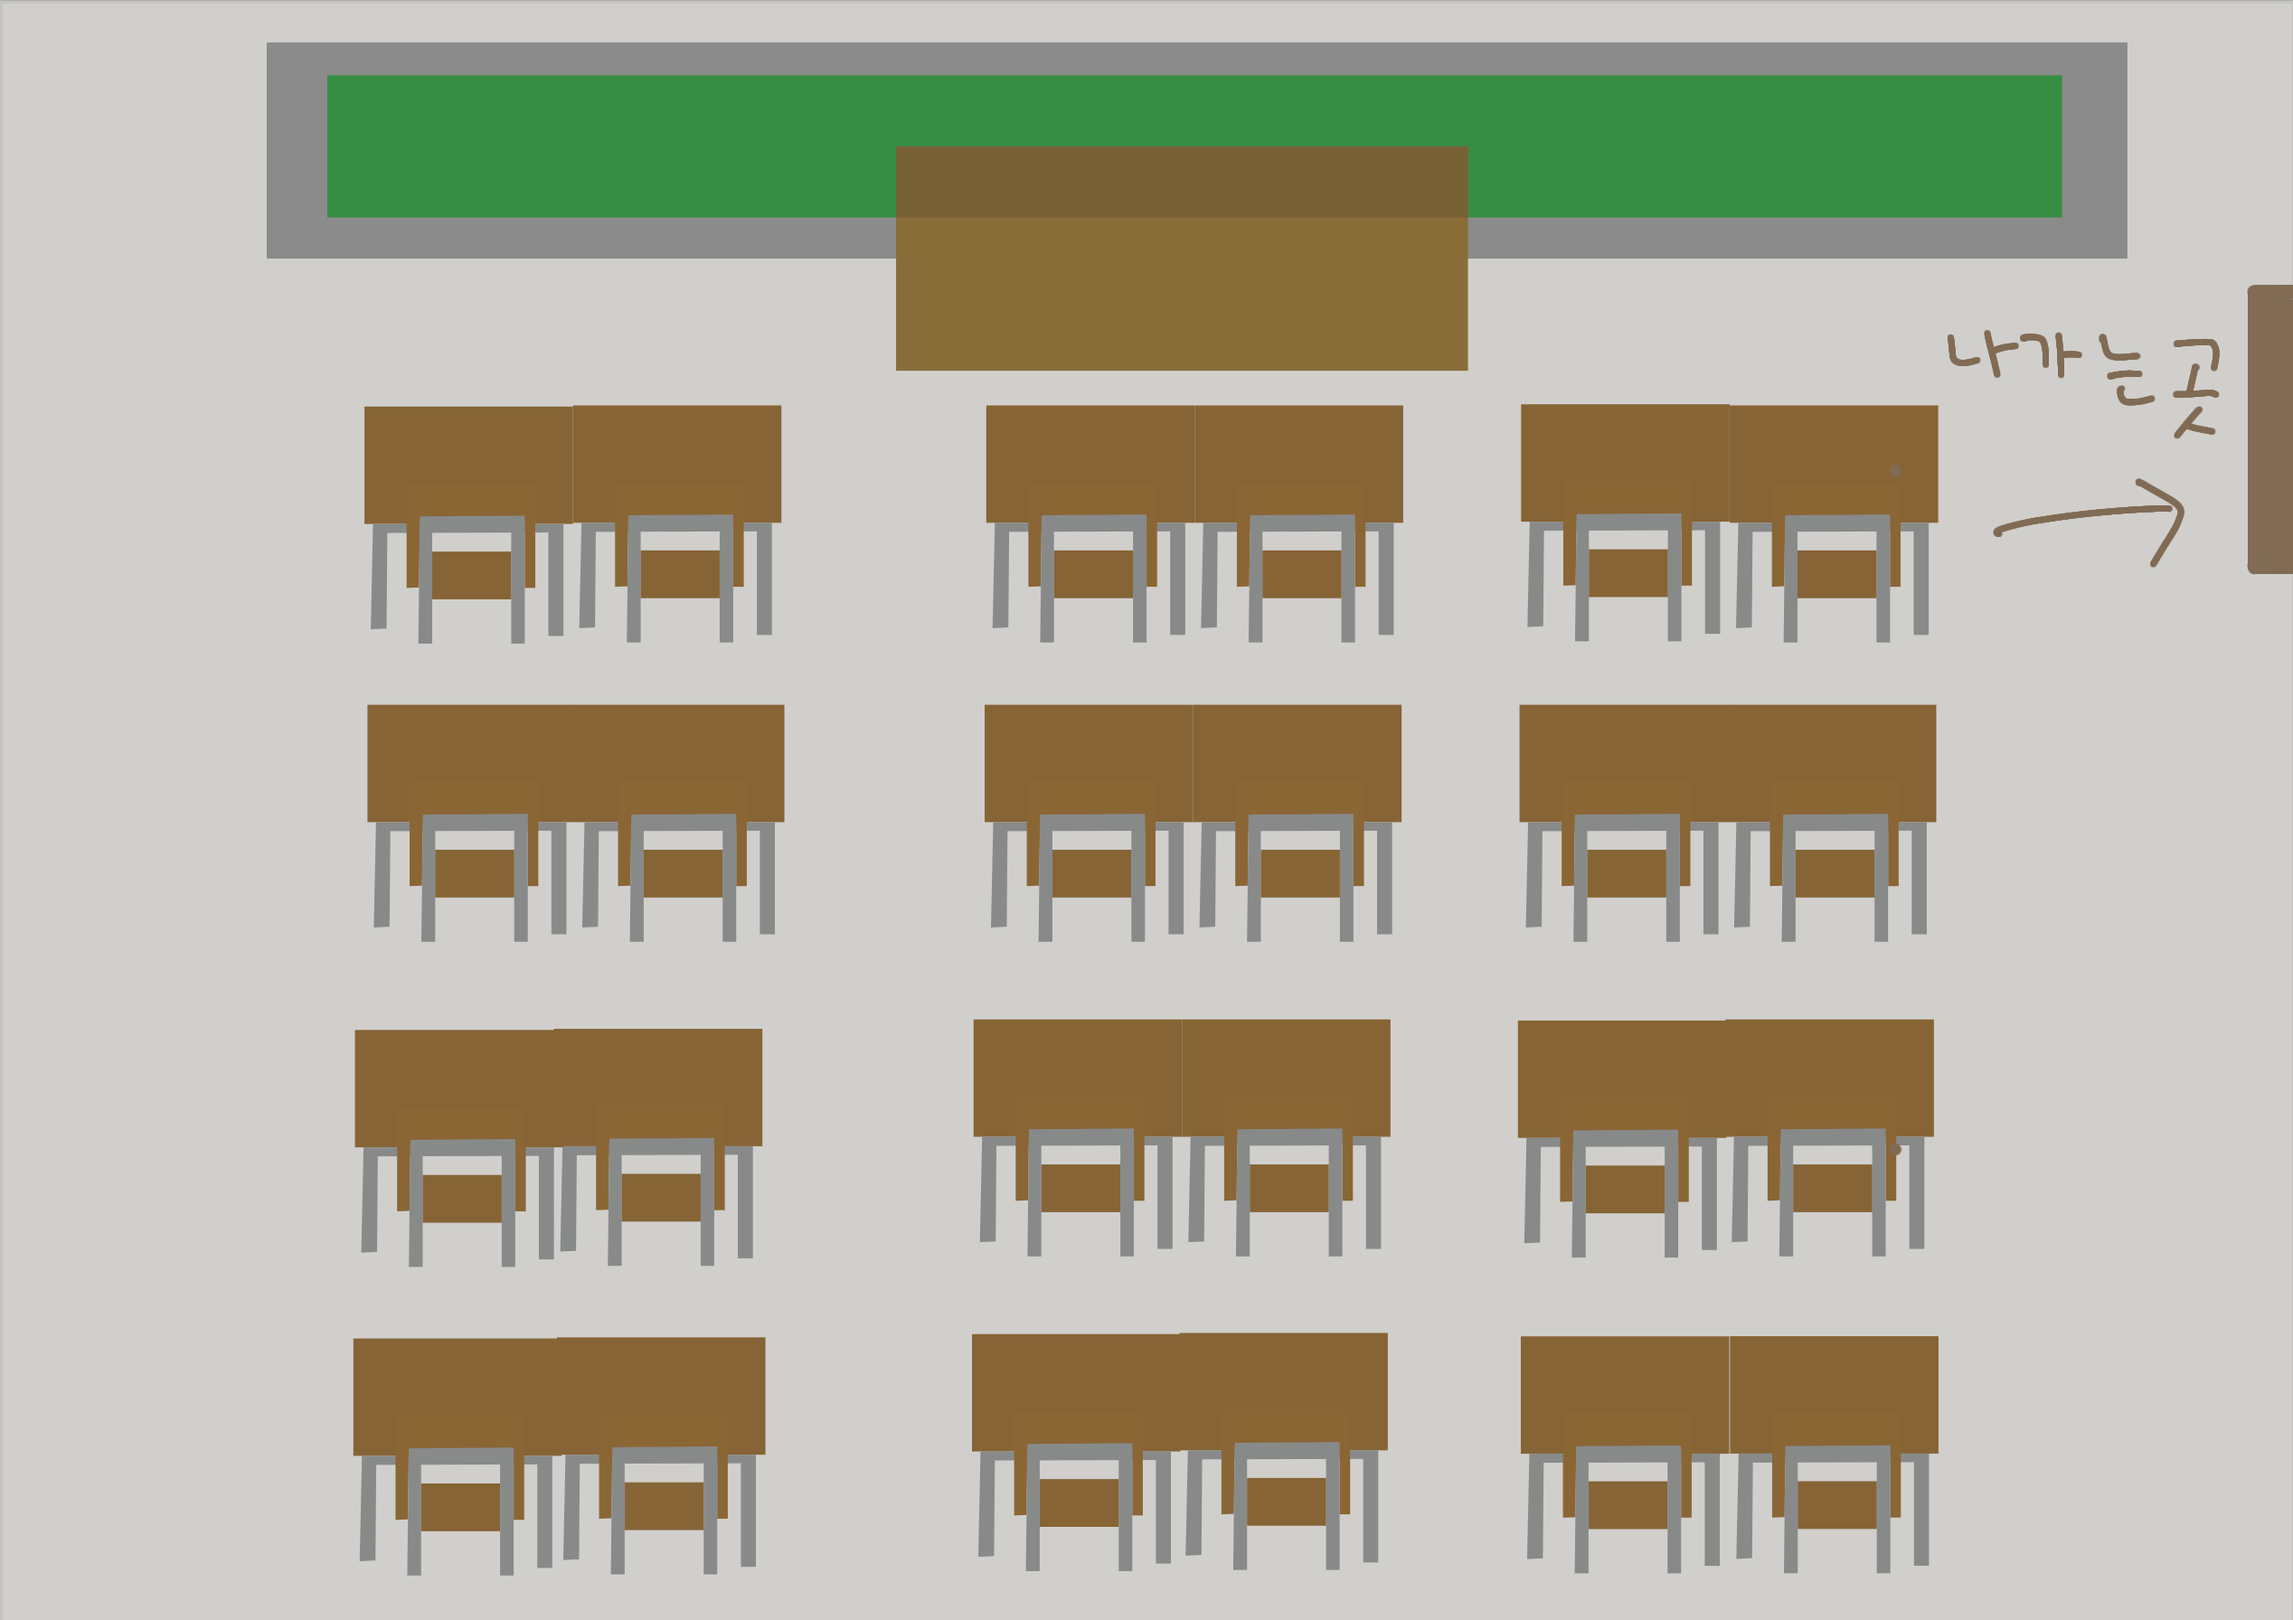
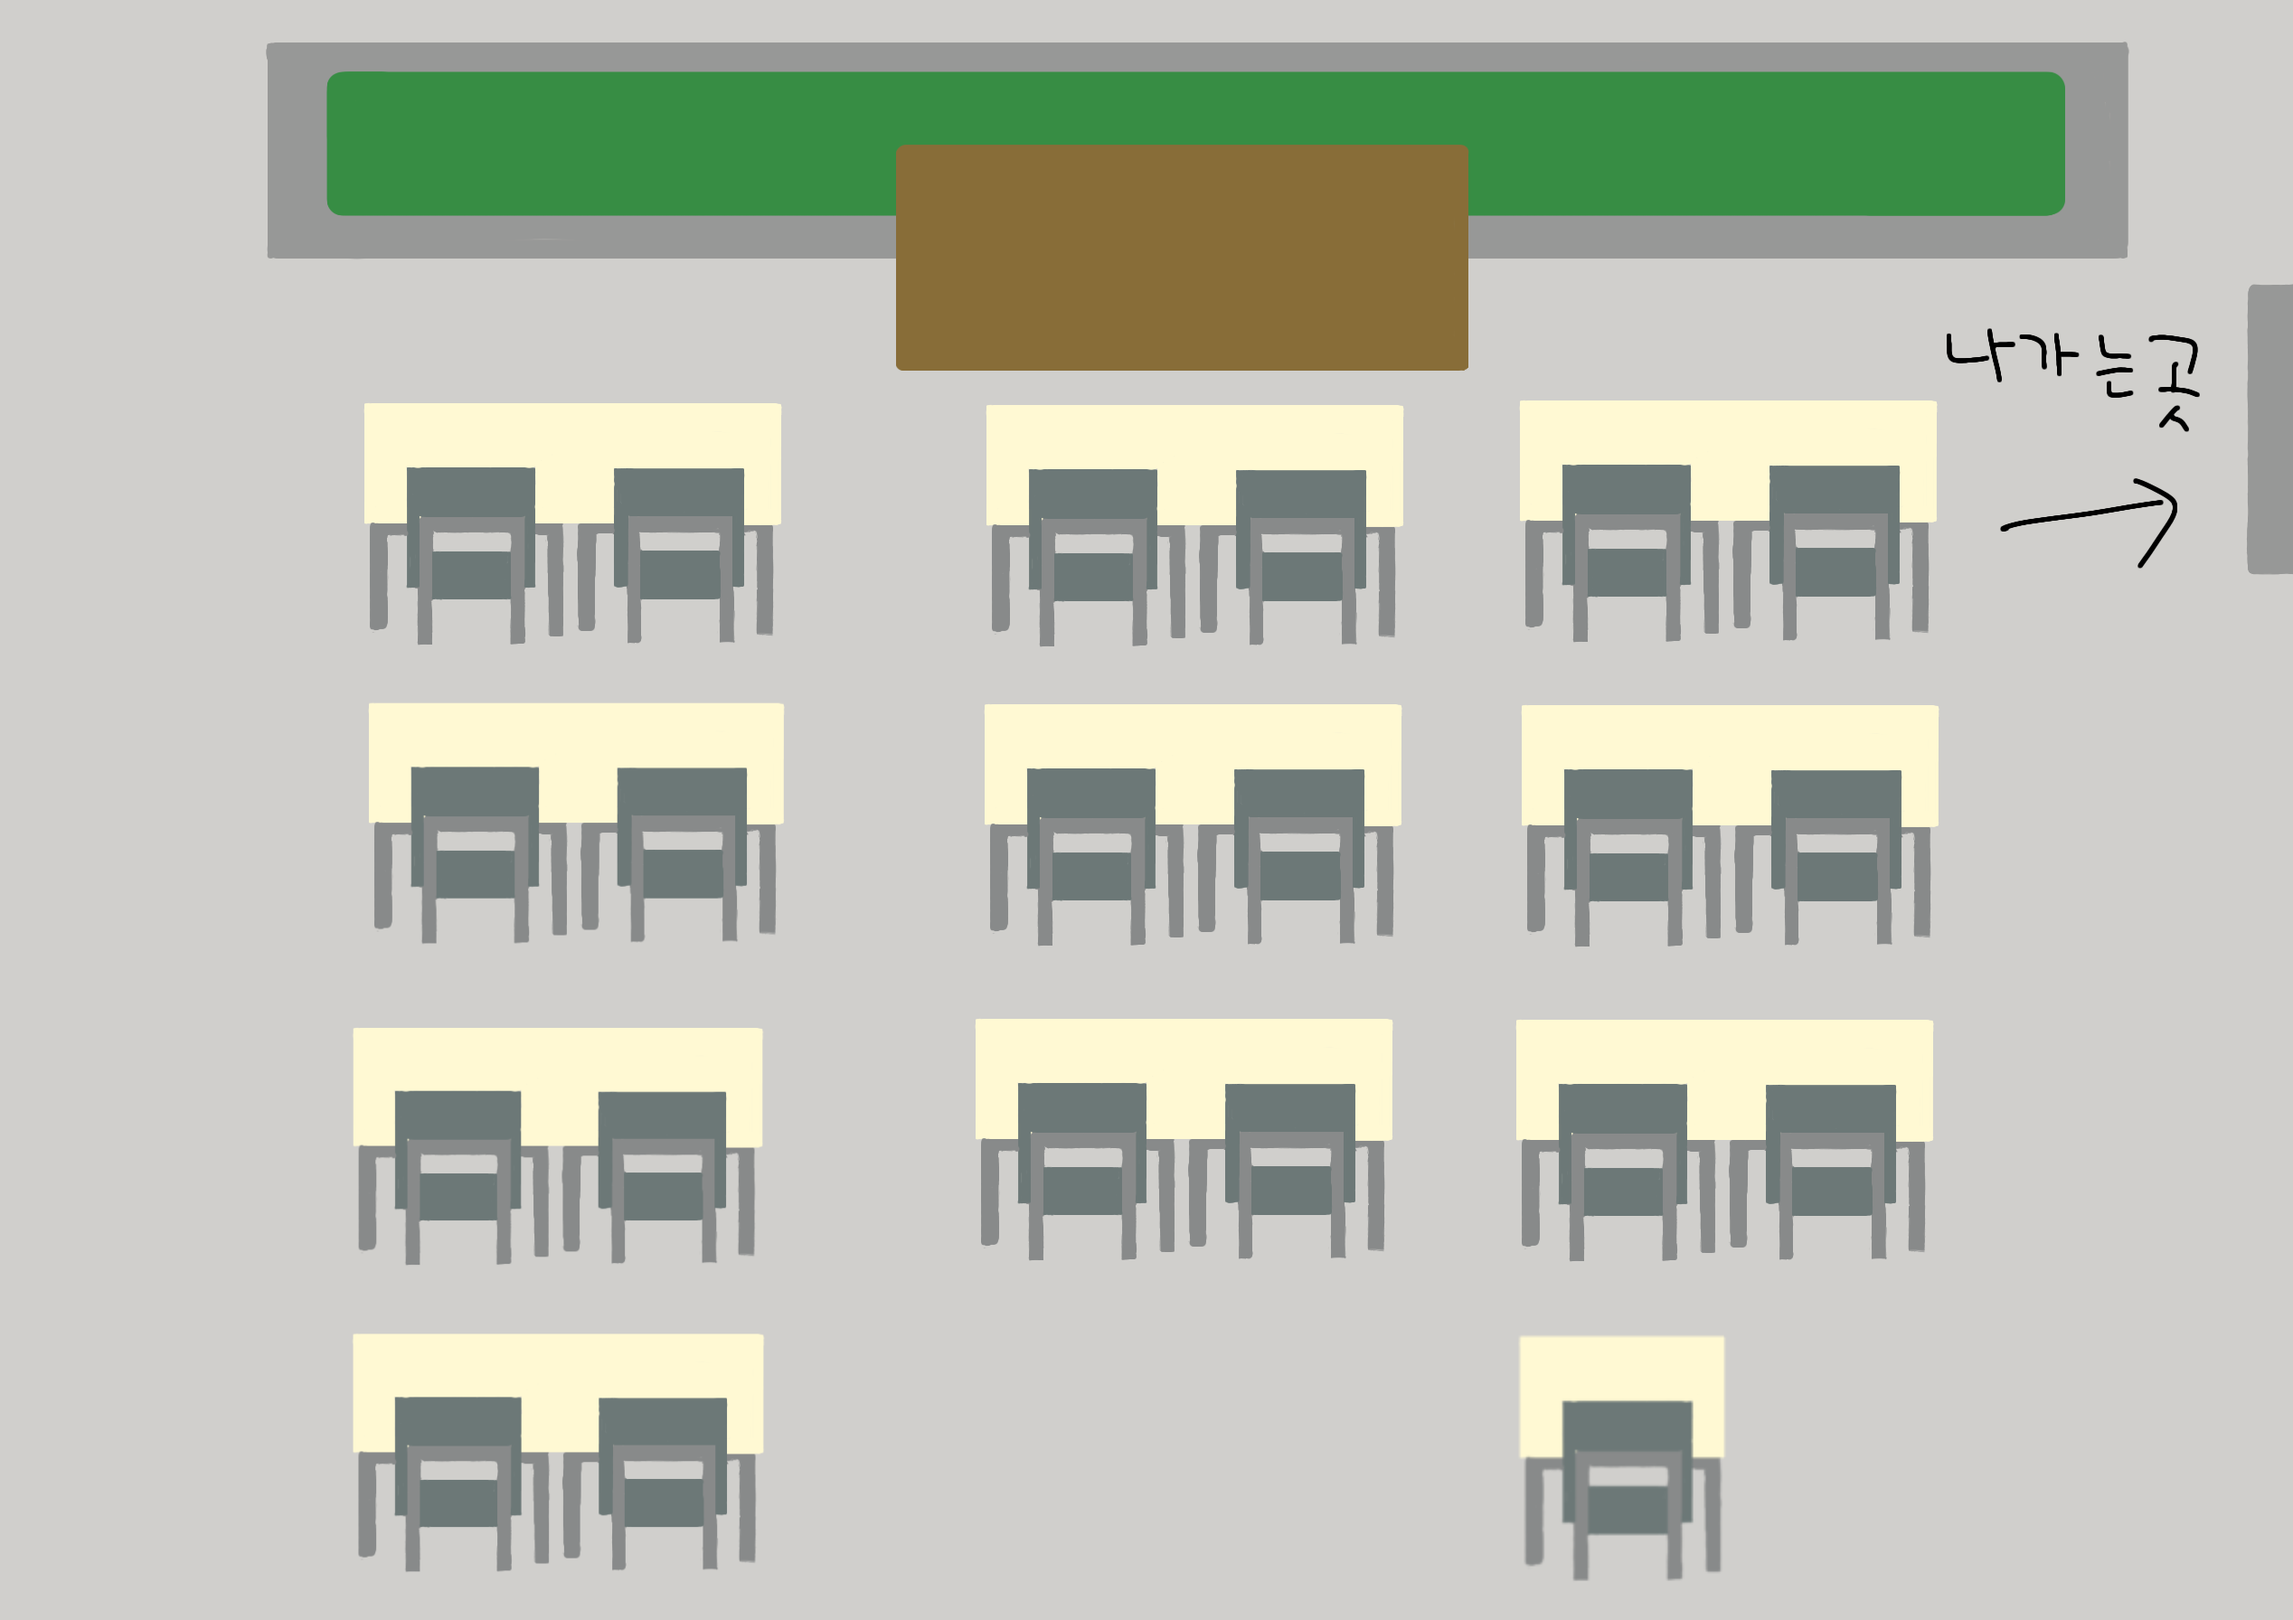
시작 화면 추가, 배경에 교실_의자 부분 추가

diff --git a/app.js b/app.js
@@ -1,23 +1,34 @@
 let current_background = 0, x = 0, y = 0
-let background = [];
+let background = [], relative = [], main_character, placeholder, button;
 for (let i = 0; i < 7; i++){
     background[i] = document.getElementById(`background${i+1}`);
+    relative[i] = document.getElementById(`background-r${i+1}`);
 }
+main_character = document.getElementById('main_character');
+placeholder = document.getElementById('placeholder')
+button = document.getElementById('button')
 function next_background(){
     current_background++;
     for (let i = 0; i < 7; i++){
         background[i].style.display = 'none';
+        if (relative[i]){
+            relative[i].style.display = 'none';
+        }
     }
     if (background.length < current_background){
         current_background = 1;
     }
     background[current_background-1].style.display = 'flex';
+    if (relative[current_background-1]){
+        relative[current_background-1].style.display = 'flex';
+    }
 }
+
 function key_event_handler(event) {
     next_background();
 }
+
 function mouse_event_handler(event) {
-    var main_character = document.getElementById('main_character');
     var rect = background[current_background - 1].getBoundingClientRect();
     var charrect = main_character.getBoundingClientRect();
     let x = event.clientX;
@@ -31,6 +42,16 @@ function mouse_event_handler(event) {
     main_character.style.left = x + 'px';
     main_character.style.top = y + 'px';
 }
-next_background();
-document.addEventListener("keydown", key_event_handler);
-document.addEventListener("mousemove", mouse_event_handler);
+
+main_character.style.display = 'none';
+placeholder.style.width = background[0].naturalWidth+'px';
+placeholder.style.height = background[0].naturalHeight+'px';
+
+button.addEventListener('click', function(event){
+    placeholder.style.display = 'none';
+    button.style.display = 'none';
+    main_character.style.display = 'flex';
+    document.addEventListener("keydown", key_event_handler);
+    document.addEventListener("mousemove", mouse_event_handler);
+    next_background();
+})

diff --git a/style.css b/style.css
@@ -13,7 +13,7 @@ body {
 }
 .back_img {
     position: absolute;
-    display: flex;
+    display: none;
     top: 50%;
     left: 50%;
     transform: translate(-50%, -50%);
@@ -29,4 +29,38 @@ body {
     display: flex;
     width: auto;
     height: 100px;
+    z-index: 10;
+}
+.first_page {
+    display: flex;
+    flex-direction: column;
+    justify-content: center;
+    align-items: center;
+    width: 100vw;
+    height: 100vh;
+    box-sizing: border-box;
+}
+#placeholder {
+    background-color: white;
+    box-sizing: border-box;
+    max-width: 80vw;
+    max-height: 80vh;
+
+    width: auto;
+    height: auto;
+
+    display: flex;
+    justify-content: center;
+    align-items: center;
+    margin-bottom: 30px;
+}
+#button {
+    display: flex;
+    padding: 12px 30px;
+    margin: 10px;
+    background: white;
+    border: 3px solid black;
+    font-size: 20px;
+    user-select: none;
+    margin-top: 35vh;
 }

diff --git a/main.html b/main.html
@@ -6,6 +6,11 @@
     </head>
     <body>
         <div class="game">
+            <div class="first_page">
+                <div id="placeholder">
+                    <button id="button">시작</button>
+                </div>
+            </div>
             <div class="background">
                 <img src="./asset/Classroom.png" id="background1" class="back_img">
                 <img src="./asset/Hallway.png" id="background2" class="back_img">
@@ -17,6 +22,9 @@
             </div>
             <div class="relative_object">
                 <img src="./asset/Main charcter.png" id="main_character" class="character">
+            </div>
+            <div class="relative_background">
+                <img src="./asset/Classroom_seats.png" id="background-r1"class="back_img">
             </div>
         </div>
         <script src="./app.js"></script>
